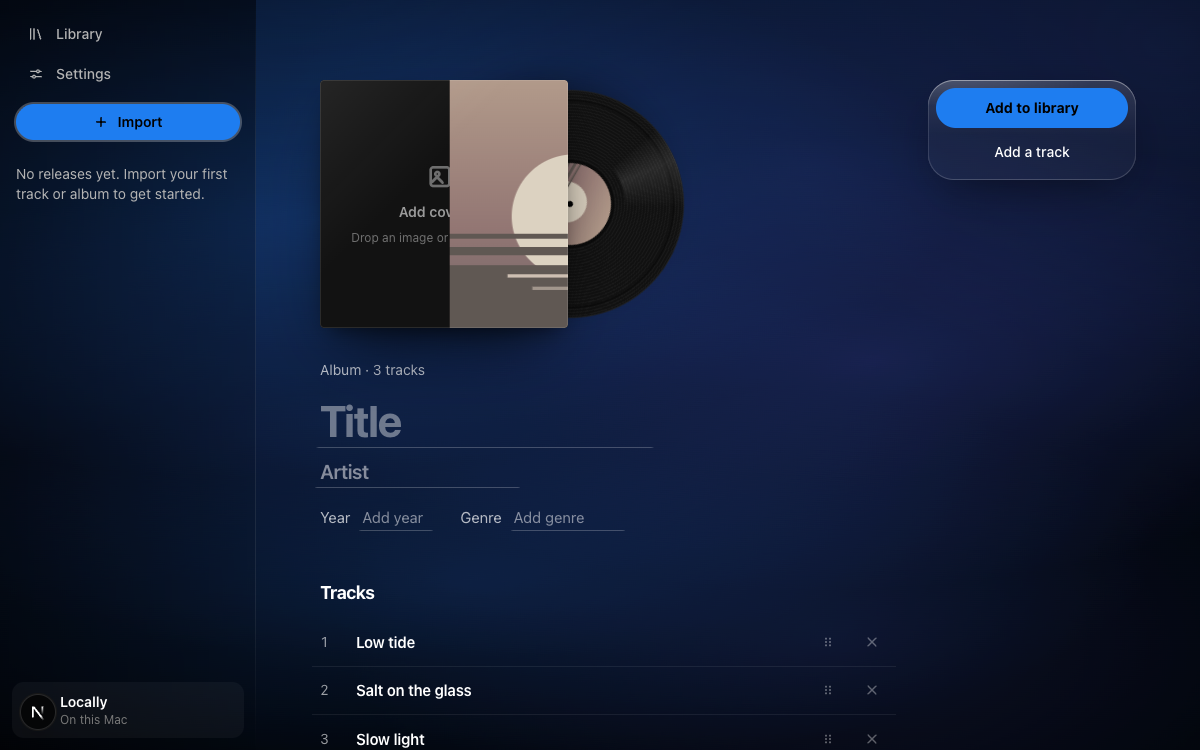
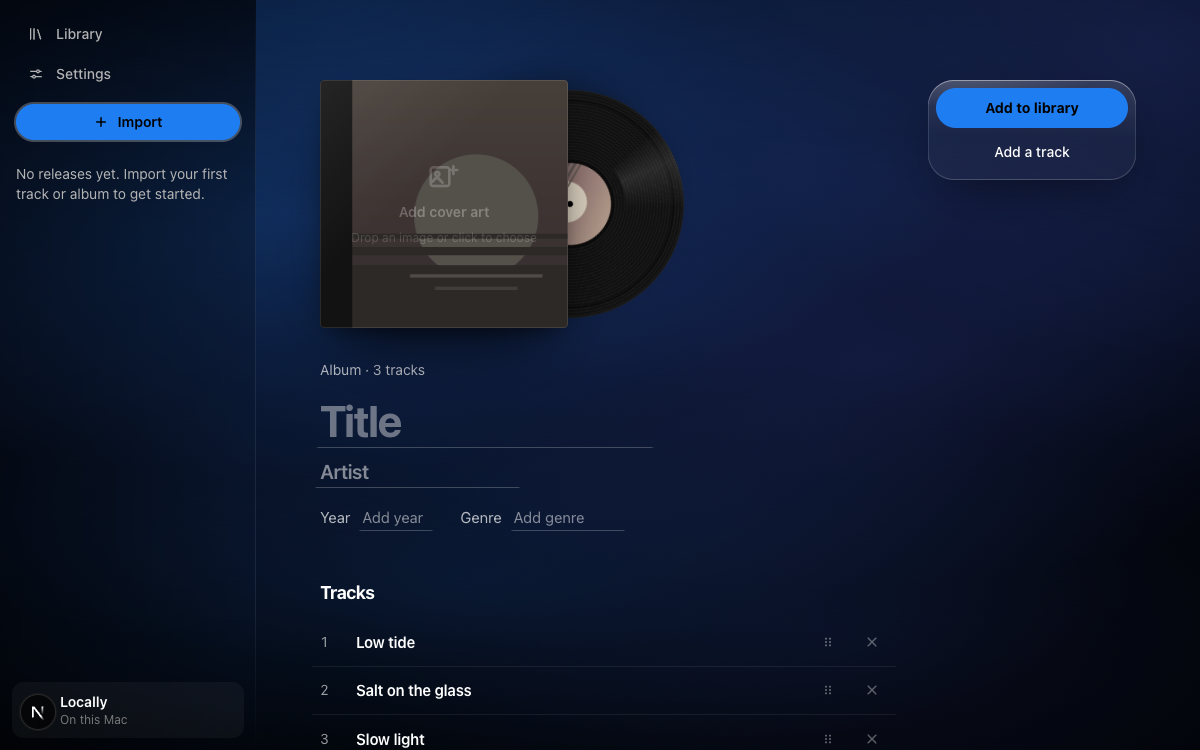
Import prototype: the original slide-in (#159)
Claude-Session: https://claude.ai/code/session_016wtvpvRFjMyGctvKw2v9pz

Changed region(s): [[0.2775, 0.092, 0.4933, 0.46]]

diff --git a/apps/web/src/app/globals.css b/apps/web/src/app/globals.css
@@ -715,7 +715,8 @@ body {
 
 /* The cover beat, in ms from the moment a cover is chosen, as a sequence with no overlap between
  * the slide and the develop (ImportPrototype.tsx holds the colour wash time that goes with it):
- *    0 for 420  the cover slides in from the right, sharp but undeveloped: a pale print (.imp-cover)
+ *    0 for 420  the cover slides in from the right (V1's original slide: 48px and a fade), sharp but
+ *               undeveloped: a pale print (.imp-cover)
  *  280 for 460  the disc settles with a turn, 240deg decelerating into place (.record-face); it
  *               starts in the slide's tail and has landed before the develop begins
  *  740 for 560  the cover develops: the real art fades in over the pale print (.imp-sharp) and
@@ -737,12 +738,12 @@ body {
   }
 }
 .imp-cover {
-  animation: imp-slide 420ms cubic-bezier(0.16, 1, 0.3, 1) backwards;
+  animation: imp-slide 420ms cubic-bezier(0.3, 0.5, 0.3, 1) backwards;
   animation-delay: calc(0ms - var(--imp-t, 0ms));
   animation-play-state: var(--imp-run, running);
 }
 @keyframes imp-slide {
-  from { transform: translateX(100%); }
+  from { opacity: 0; transform: translateX(48px); }
 }
 .imp-sharp,
 .imp-beat .record-label::before {
